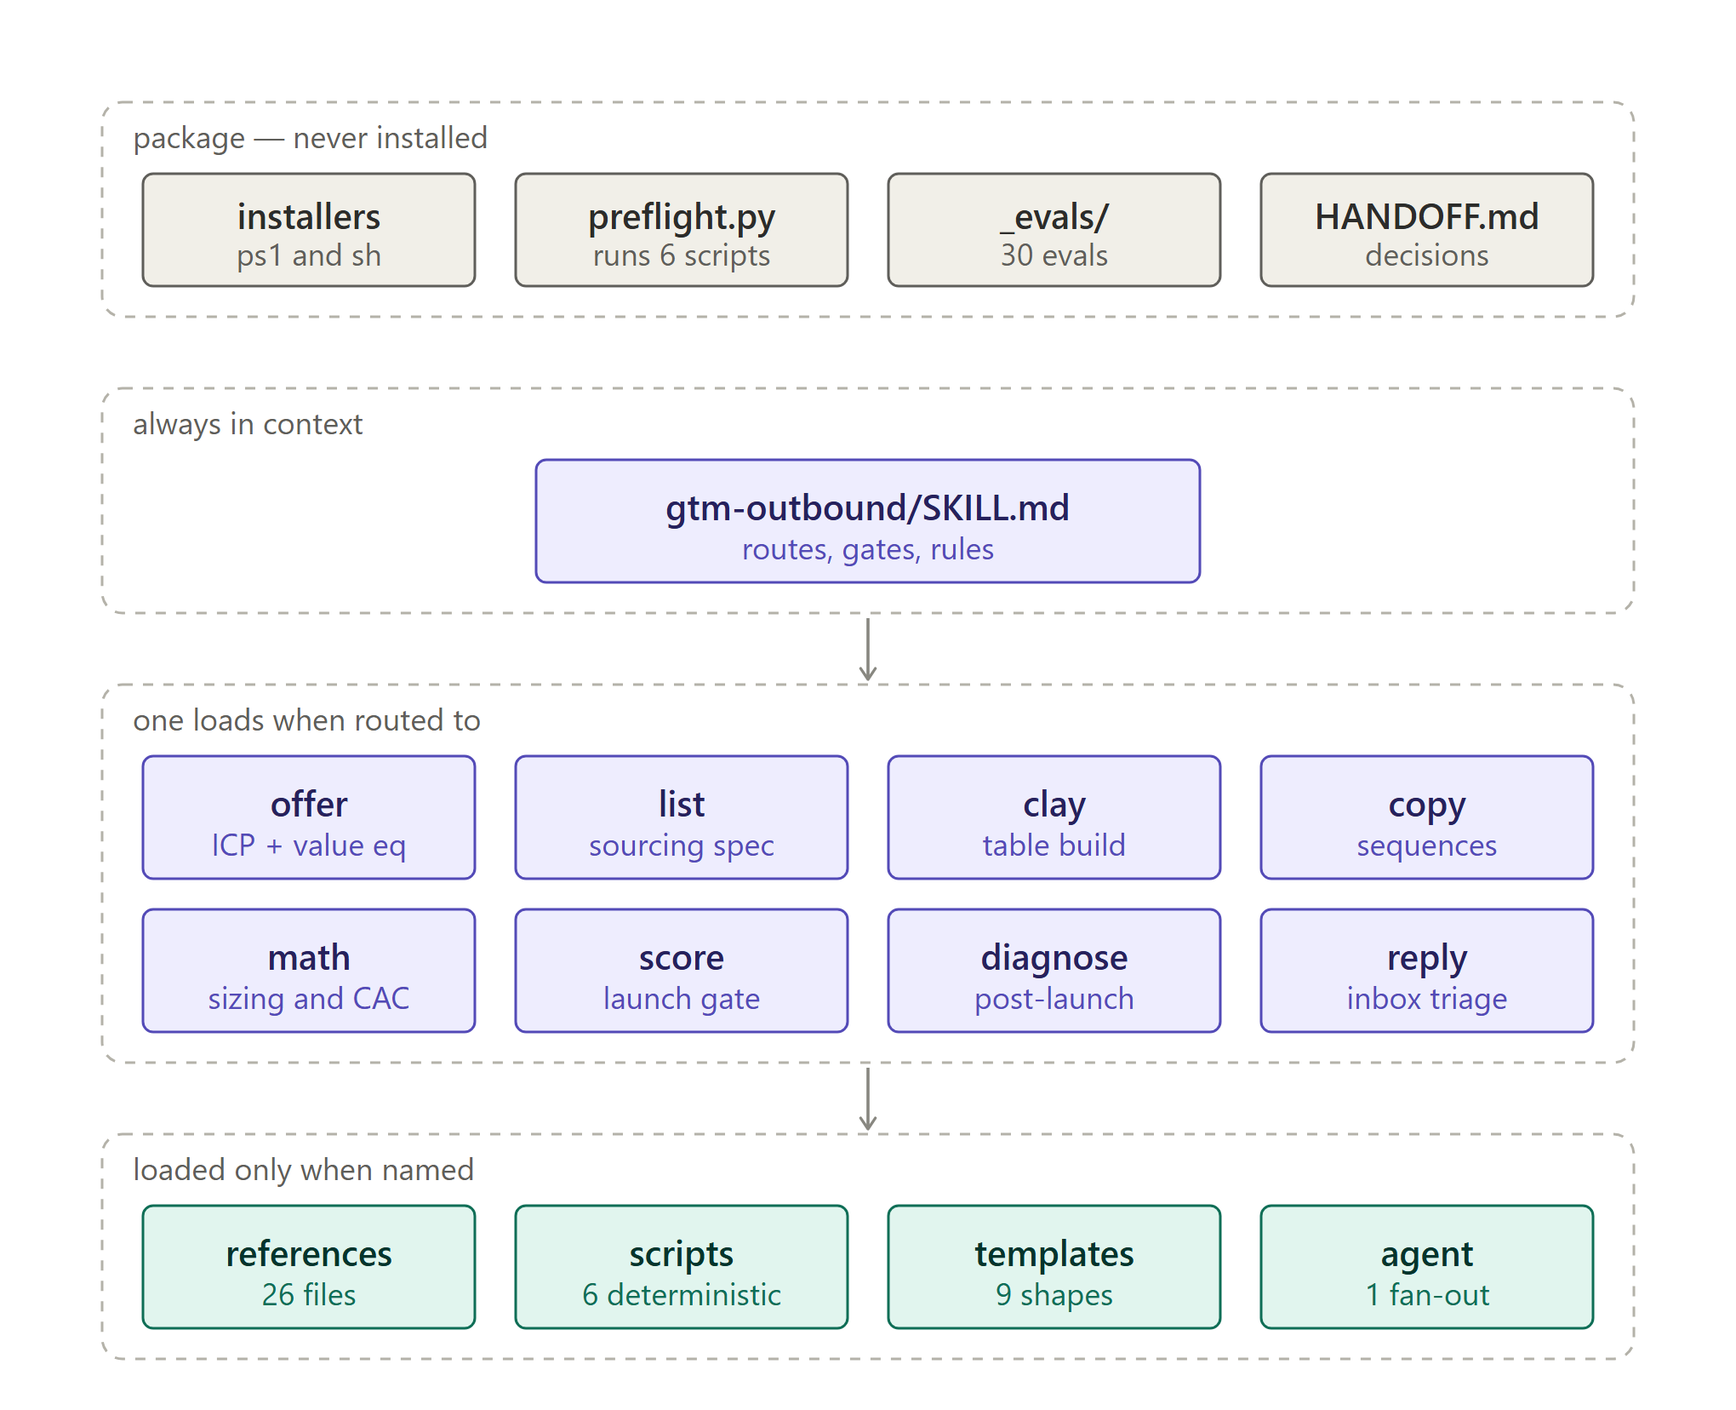
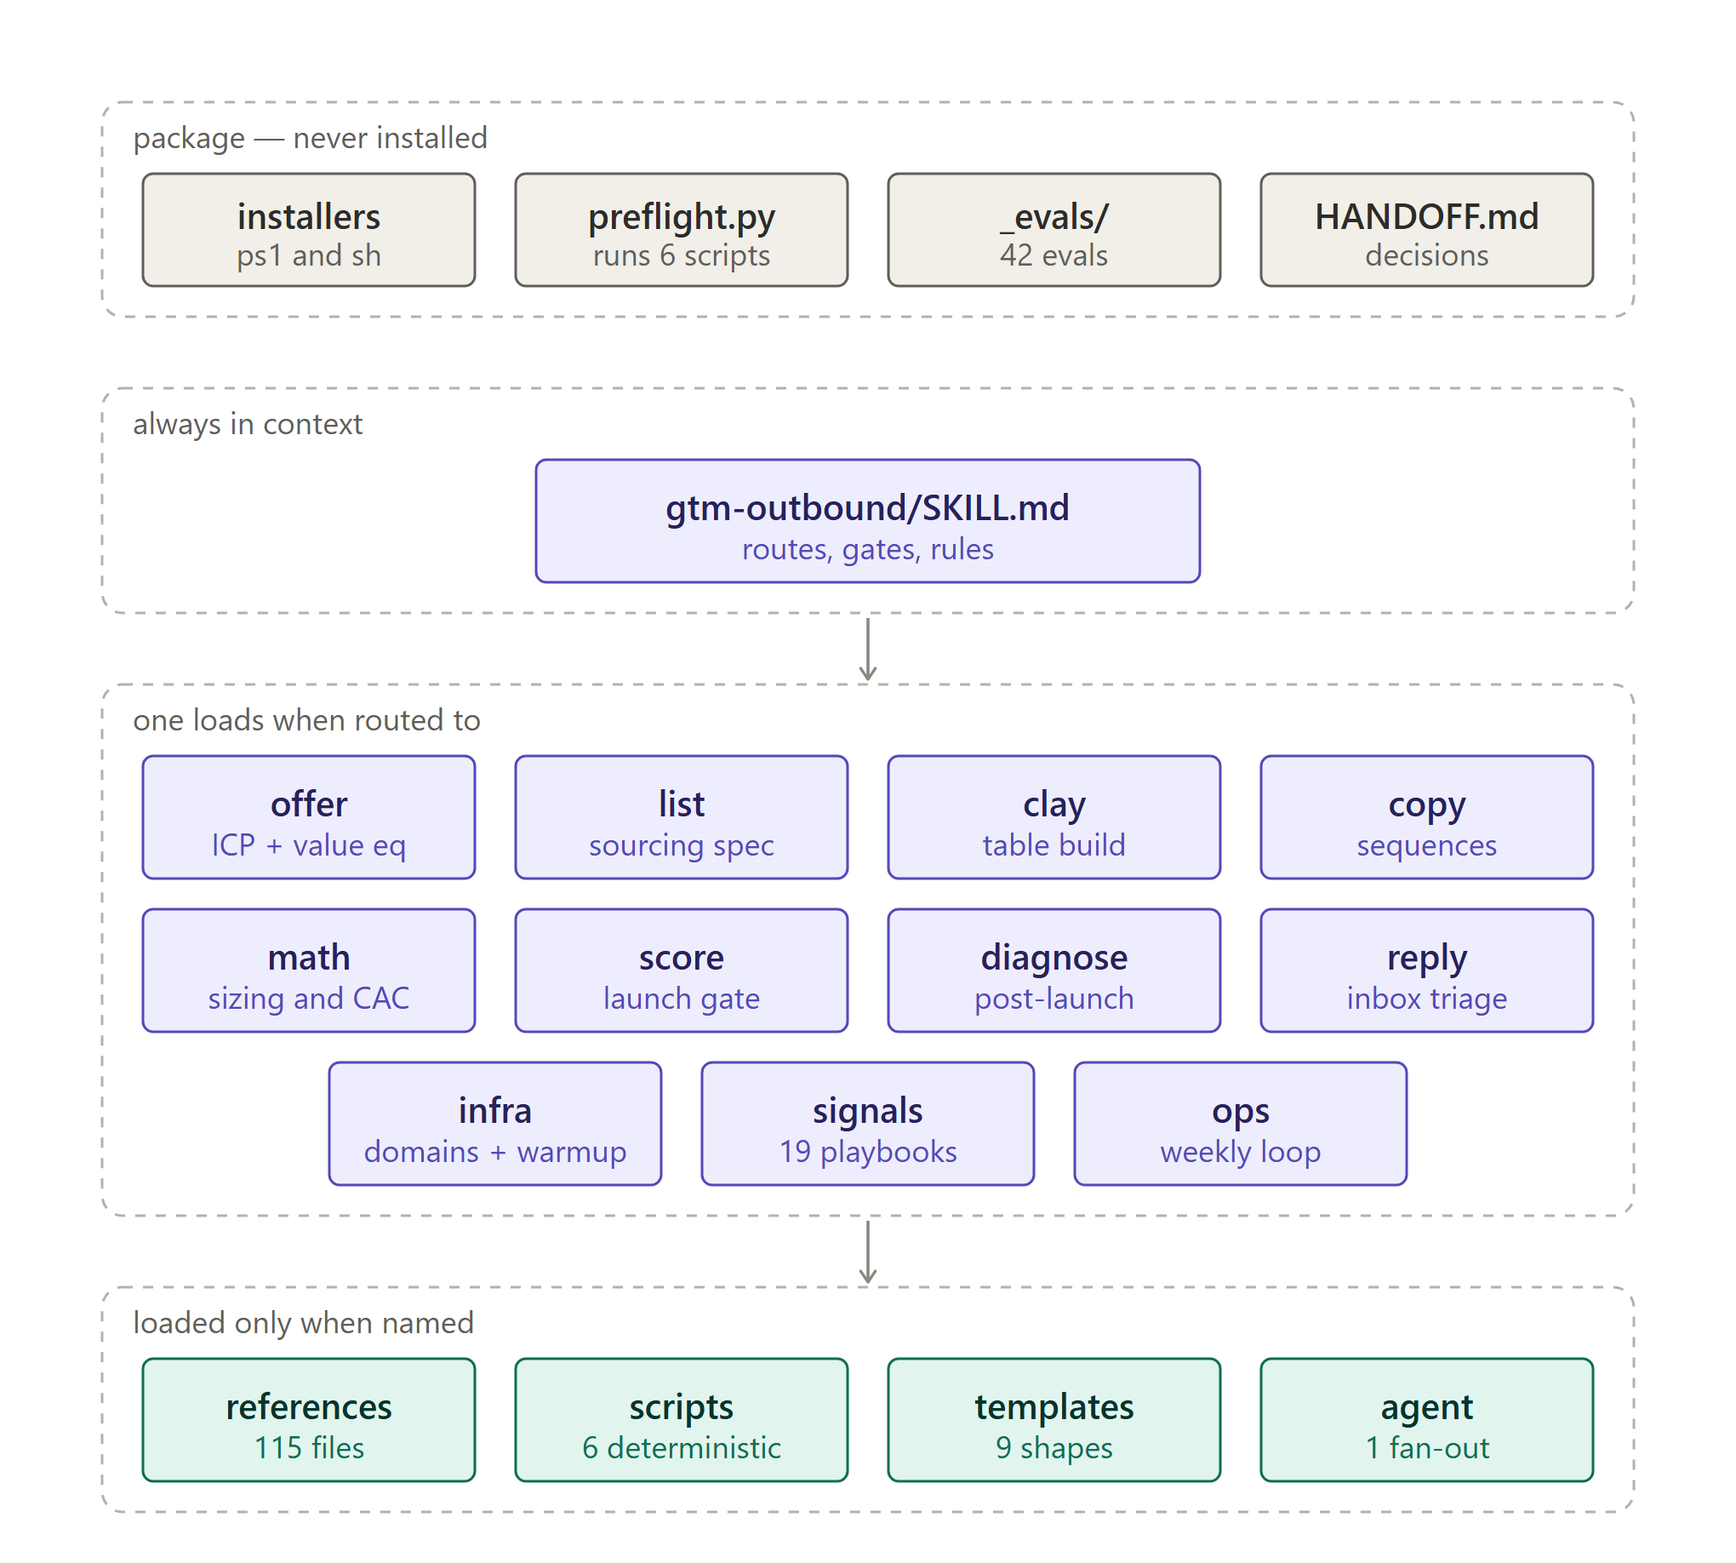
fix(charts): repair the package map generator and redraw both diagrams
_charts/package_map.py was broken independently of the merge, in two ways:

  1. SKILL resolved to ROOT/"gtm-outbound", but the skill lives under
     skills/. Every line count silently printed 0 and the drift check fired
     on files that existed, so package-map.txt had not been written since the
     tree was restructured.
  2. The reference audit used a non-recursive *.md glob, so the new infra/,
     signals/, ops/ and api/ subdirectories were invisible to it.

Both fixed. The audit is now recursive and bidirectional: it reports files on
disk that lack a description (undescribed) and descriptions that no longer
resolve (described but absent). The 19 signal playbooks are enumerated, while
their 38 Clay build companions are aggregated into counted rows that are still
audited file by file against the playbook list.

Coverage went from 21 described references to 115, and from 8 sub-skills to 11.
The optional/ TypeScript tree is now shown as an explicit outside-the-core band
so the dependency boundary is visible on the map.

Diagrams redrawn for the 12-skill shape:
  - levels: third tier grew from a 4x2 to a 4/4/3 grid for 11 sub-skills,
    canvas 552 -> 612, downstream tiers shifted; _evals 42, references 115
  - logic: infra inserted between score and hand over, signals feeding the
    list stage, ops added to the post-launch row, canvas 684 -> 780
  - both PNGs re-rendered at 3x and inspected

Verified: package_map exit 0 with no drift, preflight exit 0, coverage PASS.

diff --git a/_charts/package_map.py b/_charts/package_map.py
@@ -5,6 +5,12 @@ Line counts are read from disk, never typed. Descriptions are the only hand-writ
 part, and a file that gains or loses a description is reported as drift rather than
 silently omitted -- the failure mode this replaces was a hand-drawn map listing 15
 references when there were 21.
+
+v3.0.0: the tree moved under skills/, and the reference set split into subdirectories
+(infra/, signals/, ops/, api/). Both are handled here; the audit is now recursive so a
+new subdirectory cannot slip past it. Repetitive signal build files are aggregated into
+explicit counted rows rather than enumerated 38 times, and the audit still checks them
+file by file against the playbook list.
 """
 import sys
 from pathlib import Path
@@ -15,11 +21,39 @@ sys.stdout.reconfigure(encoding="utf-8", errors="replace")
 sys.stderr.reconfigure(encoding="utf-8", errors="replace")
 
 ROOT = Path(__file__).resolve().parent.parent
-SKILL = ROOT / "gtm-outbound"
+SKILLS = ROOT / "skills"          # sibling skills live here
+SKILL = SKILLS / "gtm-outbound"   # the orchestrator package
 OUT = Path(__file__).parent / "package-map.txt"
 
 NAME_END, NUM_W = 36, 5  # every count right-aligns to one absolute column, not per-prefix
 DESC_COL = NAME_END + NUM_W + 3
+
+# ---------------------------------------------------------------------------
+# Signal playbooks. The 19 names drive three files each: the playbook itself,
+# a Clay table build and a Clay CLI workflow build. Those two build sets are
+# aggregated in the map but audited file by file.
+# ---------------------------------------------------------------------------
+SIGNALS = [
+    ("new-in-role", "start date · title change · rebuild window"),
+    ("linkedin-engagement", "likers and commenters on a source account"),
+    ("social-posts", "hook from their own most recent post"),
+    ("warm-intros", "one hop from the client · say so"),
+    ("fundraising", "round, date, investor · buying window"),
+    ("hiring-surge", "department headcount growth in 6 months"),
+    ("job-posting-language", "a clause from a live role"),
+    ("ad-library", "what they run on Meta right now"),
+    ("pricing-page", "public tiers · price points · feature edges"),
+    ("case-study-page", "one named customer off their own page"),
+    ("tech-on-website", "named tech verified on the live site"),
+    ("google-site-search", "does their site mention this keyword"),
+    ("company-name-cleaning", "the short form a person says aloud"),
+    ("first-name-cleaning", "the greeting form, not the raw field"),
+    ("social-link-finding", "verified official profile URLs"),
+    ("lookalikes", "case study to companies that see themselves"),
+    ("name-to-other-prospects", "right-fit colleague · no wrong-name risk"),
+    ("ai-specificity", "the sentence that makes a generic offer specific"),
+    ("creative-ideas", "three per-company bullets for a slot"),
+]
 
 REFERENCES = [
     ("strategy", [
@@ -27,10 +61,24 @@ REFERENCES = [
         ("icp-filters.md", "filter taxonomy · exclusions · 3 hard rules"),
         ("signals-and-triggers.md", "signal to source map · decay windows"),
         ("buying-committee.md", "DMU roles · staggered threading above ~30 staff"),
+        ("compliance-gates.md", "jurisdiction to consent model to required artifacts"),
+        ("icp-intake.md", "long-form interview · when the ICP has no words yet"),
+        ("campaign-ideas.md", "15-25 angles · raw material, not a substitute for narrowing"),
+        ("lead-magnets.md", "free hook selection · what to give away"),
     ]),
     ("sourcing and enrichment", [
         ("sourcing-channels.md", "channel table · trigger sources beat directories"),
         ("waterfall-enrichment.md", "cheap-first order · gating · verification"),
+        ("list-lanes.md", "one-command lanes · snowball until the market is dry"),
+        ("list-expansion.md", "~10 seeds to a qualified TAM · fingerprint to verify"),
+        ("list-sculpt.md", "SCULPT · learn the customer's own labels"),
+        ("list-ai-qualification.md", "AI qualification prompt · tune before contact pull"),
+        ("list-qa.md", "8 dimensions · grade before upload"),
+        ("sourcing-blitz.md", "domain to contacts"),
+        ("sourcing-google-maps.md", "local SMB lists · category x place"),
+        ("sourcing-discolike.md", "lookalikes from seed domains"),
+        ("sourcing-competitor-engagers.md", "who engages with competitor posts"),
+        ("sourcing-prospeo-export.md", "paginated people export"),
     ]),
     ("clay table construction", [
         ("clay-frameworks.md", "FETE · Jigsaw · SPICE prompt structure"),
@@ -41,17 +89,54 @@ REFERENCES = [
     ]),
     ("execution", [
         ("copy-frameworks.md", "5 blocks · 5 structures · spintax rules"),
+        ("copy-stepwise.md", "direction to subject to body to YAML · confirm each step"),
+        ("copy-spintax.md", "Smartlead spintax · variation budgets"),
+        ("spam-rules.md", "phrases that trip filters · scan before send"),
         ("personalization-depth.md", "fact/inference/hypothesis · appropriateness line"),
+        ("personalization-subagent.md", "per-lead fan-out · approval loop"),
         ("cta-design.md", "motivation x ability x prompt"),
         ("cold-call.md", "4-move opener · phone as a second signal"),
+        ("linkedin-playbook.md", "connection notes · sequencing · reply handling"),
+        ("multichannel-orchestration.md", "video · WhatsApp · phone · conditional branches"),
         ("deliverability.md", "warmup ladder · SPF/DKIM/DMARC · bulk-sender rules"),
+        ("suppression-mechanics.md", "global suppression · cross-domain removal"),
+        ("upload-smartlead.md", "DRAFT upload · human presses start"),
         ("objection-library.md", "recurring objections · understand before countering"),
     ]),
     ("measurement and market", [
         ("gtm-benchmarks.md", "email + LinkedIn bands · what not to optimise"),
         ("gtm-math.md", "formulas mirroring the calculator"),
+        ("experiments.md", "single-variable design · avoid confounded arms"),
+        ("ai-sdr-positioning.md", "what to automate · where AI SDR stops paying"),
         ("gcc-market.md", "★ MENA: coverage gap · Sun-Thu · Ramadan · Zid/Salla"),
         ("mcp-integration.md", "live-data seam · read-only boundary"),
+    ]),
+    ("infrastructure", [
+        ("infra/domains.md", "domain generation · purchase · nameservers"),
+        ("infra/inbox-warmup.md", "warmup ramps · signatures · tagging"),
+        ("infra/deliverability-audit.md", "SPF/DKIM/DMARC · placement · bounce mix"),
+        ("infra/deliverability-incident.md", "failure-mode triage tree"),
+        ("infra/inbox-lifecycle.md", "keep/cancel/promote/buy · replacement lead time"),
+    ]),
+    ("operations", [
+        ("ops/weekly-rhythm.md", "Mon/Wed/Fri · fixed order so drift is visible"),
+        ("ops/reply-scoring.md", "positive replies / sends · the one metric"),
+        ("ops/deliverability-testing.md", "compare reply and bounce by inbox type"),
+    ]),
+    ("APIs", [
+        ("api/smartlead.md", "campaigns · leads · inboxes · analytics endpoints"),
+        ("api/prospeo.md", "Search Person filters · pagination"),
+    ]),
+    ("signal playbooks", [
+        ("signals/index.md", "playbook index · the two build harnesses"),
+        *[(f"signals/{k}.md", d) for k, d in SIGNALS],
+    ]),
+    # Aggregated below: 19 clay-table builds + 19 CLI workflows, counted and audited.
+    ("signal builds (aggregated)", [
+        ("signals/clay-table-harness.md", "shared harness for every clay table build"),
+        ("signals/clay-cli-harness.md", "shared harness for every CLI workflow build"),
+        ("signals/*.clay-table.md", "Clay table build · columns · credit gates"),
+        ("signals/*.clay-workflow.md", "Clay CLI workflow build"),
     ]),
 ]
 
@@ -69,6 +154,7 @@ TEMPLATES = [
     ("campaign-score.md", "verdict · hard gates first · ranked fix list"),
     ("clay-build.md", "ordered columns · cost class · run condition"),
     ("reply-triage.md", "counts by type · suppression list · patterns"),
+    ("reply-drafts.md", "draft per reply class · never sends"),
     ("list-spec.md", "channels · pipeline · credit logic · attrition"),
     ("diagnosis.md", "verdict and layer first · evidence · next action"),
     ("campaign-brief.md", "assembled by a full run"),
@@ -84,16 +170,49 @@ SUBSKILLS = [
     ("gtm-outbound-score", "100-point gate — has it NOT sent yet"),
     ("gtm-outbound-diagnose", "layer routing — has it ALREADY sent"),
     ("gtm-outbound-reply", "classification · objections · booking · handoff"),
+    ("gtm-outbound-infra", "domains · warmup · auth · incidents · fleet lifecycle"),
+    ("gtm-outbound-signals", "19 signal playbooks · one line each"),
+    ("gtm-outbound-ops", "weekly rhythm · reply scoring · inbox-type tests"),
 ]
 
 drift: list[str] = []
 
 
-def lines(path: Path) -> int:
+def count_lines(path: Path) -> int:
     if not path.exists():
         drift.append(f"missing: {path.relative_to(ROOT)}")
         return 0
     return len(path.read_text(encoding="utf-8", errors="replace").splitlines())
+
+
+def item_stats(name: str) -> tuple[int, int]:
+    """(file count, total lines) for a reference entry; supports a glob aggregate."""
+    refdir = SKILL / "references"
+    if "*" in name:
+        matches = sorted(refdir.glob(name))
+        return len(matches), sum(count_lines(p) for p in matches)
+    return 1, count_lines(refdir / name)
+
+
+def audit(directory: Path, described: list[str], pattern: str) -> None:
+    """Every file on disk must be described, and every description must resolve."""
+    actual = {
+        str(p.relative_to(directory)).replace("\\", "/")
+        for p in directory.rglob(pattern)
+    }
+    expected: set[str] = set()
+    for name in described:
+        if "*" in name:
+            expected |= {
+                str(p.relative_to(directory)).replace("\\", "/")
+                for p in directory.glob(name)
+            }
+        else:
+            expected.add(name)
+    for extra in sorted(actual - expected):
+        drift.append(f"undescribed: {directory.name}/{extra}")
+    for gone in sorted(expected - actual):
+        drift.append(f"described but absent: {directory.name}/{gone}")
 
 
 def row(prefix: str, name: str, count: int, desc: str) -> str:
@@ -111,68 +230,80 @@ def band(label: str, total: int) -> str:
     return f"{left} {total:>{NUM_W},} ─╮"
 
 
-def audit(directory: Path, described: list[str], glob: str) -> None:
-    actual = {p.name for p in directory.glob(glob)}
-    for extra in sorted(actual - set(described)):
-        drift.append(f"undescribed: {directory.relative_to(ROOT)}/{extra}")
-
-
-out: list[str] = []
-w = out.append
-
 ref_files = [n for _, items in REFERENCES for n, _ in items]
 audit(SKILL / "references", ref_files, "*.md")
 audit(SKILL / "scripts", [n for n, _ in SCRIPTS], "*.py")
 audit(SKILL / "assets/templates", [n for n, _ in TEMPLATES], "*.md")
 
-ref_total = sum(lines(SKILL / "references" / n) for n in ref_files)
-script_total = sum(lines(SKILL / "scripts" / n) for n, _ in SCRIPTS)
-tpl_total = sum(lines(SKILL / "assets/templates" / n) for n, _ in TEMPLATES)
-sub_total = sum(lines(ROOT / d / "SKILL.md") for d, _ in SUBSKILLS)
+out: list[str] = []
+w = out.append
+
+
+def band_total(items) -> int:
+    return sum(item_stats(n)[1] for n, _ in items)
+
+
+ref_total = band_total([(n, d) for _, items in REFERENCES for n, d in items])
+ref_count = len(list((SKILL / "references").rglob("*.md")))
+script_total = sum(count_lines(SKILL / "scripts" / n) for n, _ in SCRIPTS)
+tpl_total = sum(count_lines(SKILL / "assets/templates" / n) for n, _ in TEMPLATES)
+sub_total = sum(count_lines(SKILLS / d / "SKILL.md") for d, _ in SUBSKILLS)
+opt_files = sorted((SKILL / "optional" / "scripts").rglob("*.ts"))
+opt_count = len(opt_files)
+opt_total = sum(count_lines(p) for p in opt_files)
 
 w("gtm-outbound/".ljust(NAME_END) + "  ★  ORCHESTRATOR — the only file always in context")
 w("│")
-w(row("├── ", "SKILL.md", lines(SKILL / "SKILL.md"),
-      "routing table · artifact chain · 6 hard gates"))
+w(row("├── ", "SKILL.md", count_lines(SKILL / "SKILL.md"),
+      "routing table · artifact chain · hard gates"))
 w(" " * DESC_COL + "motion-fit and geography intake · NEVER-SENDS")
 w("│")
 w("├── agents/")
 w(row("│   └── ", "gtm-outbound-researcher.md",
-      lines(SKILL / "agents/gtm-outbound-researcher.md"),
+      count_lines(SKILL / "agents/gtm-outbound-researcher.md"),
       "the one parallel step · can return SUPPRESS"))
 w("│")
-w(header("├── ", "references/", ref_total,
-         f"{len(ref_files)} files, loaded on demand only"))
+w(header("├── ", "references/", ref_total, f"{ref_count} files, loaded on demand only"))
 for group, items in REFERENCES:
     w("│   │")
-    w(band(group, sum(lines(SKILL / "references" / n) for n, _ in items)))
+    w(band(group, band_total(items)))
     for i, (name, desc) in enumerate(items):
         edge = "│   └── " if i == len(items) - 1 else "│   ├── "
-        w(row(edge, name, lines(SKILL / "references" / name), desc))
+        nfiles, nlines = item_stats(name)
+        label = name if "*" not in name else name.replace("*", f"{nfiles}")
+        w(row(edge, label, nlines, desc))
 w("│")
 w(header("├── ", "scripts/", script_total, "run these, never reason about their output"))
 for i, (name, desc) in enumerate(SCRIPTS):
     edge = "│   └── " if i == len(SCRIPTS) - 1 else "│   ├── "
-    w(row(edge, name, lines(SKILL / "scripts" / name), desc))
+    w(row(edge, name, count_lines(SKILL / "scripts" / name), desc))
+w("│")
+w(header("├── ", "optional/", opt_total,
+         f"{opt_count} TypeScript files — OUTSIDE the zero-dependency core"))
+w(row("│   ├── ", "README.md", count_lines(SKILL / "optional" / "README.md"),
+      "what breaks if you move this into the core"))
+w(row("│   └── ", "scripts/<skill>/*.ts", opt_total,
+      "need Node 18+, tsx and API keys · not covered by preflight"))
 w("│")
 w(header("└── ", "assets/templates/", tpl_total,
          f"{len(TEMPLATES)} files, fill rather than invent a shape"))
 for i, (name, desc) in enumerate(TEMPLATES):
     edge = "    └── " if i == len(TEMPLATES) - 1 else "    ├── "
-    w(row(edge, name, lines(SKILL / "assets/templates" / name), desc))
+    w(row(edge, name, count_lines(SKILL / "assets/templates" / name), desc))
 
 w("")
 w(header("", "gtm-outbound-*/", sub_total, "SIBLING SKILLS — one loads per route"))
 for i, (name, desc) in enumerate(SUBSKILLS):
     edge = "└── " if i == len(SUBSKILLS) - 1 else "├── "
-    w(row(edge, name + "/", lines(ROOT / name / "SKILL.md"), desc))
+    w(row(edge, name + "/", count_lines(SKILLS / name / "SKILL.md"), desc))
 
 w("")
 w("─" * 92)
-total = (lines(SKILL / "SKILL.md") + lines(SKILL / "agents/gtm-outbound-researcher.md")
+total = (count_lines(SKILL / "SKILL.md")
+         + count_lines(SKILL / "agents/gtm-outbound-researcher.md")
          + ref_total + script_total + tpl_total + sub_total)
-w(f"9 skills · 1 agent · {len(ref_files)} references · {len(SCRIPTS)} scripts · "
-  f"{len(TEMPLATES)} templates · {total:,} lines")
+w(f"{len(SUBSKILLS) + 1} skills · 1 agent · {ref_count} references · "
+  f"{len(SCRIPTS)} scripts · {len(TEMPLATES)} templates · {total:,} lines")
 
 text = "\n".join(out) + "\n"
 print(text)

diff --git a/README.md b/README.md
@@ -5,7 +5,7 @@
 hard rule that the skill never sends anything itself.
 
 <p align="center">
-  <img src="_charts/gtm-outbound-logic.svg" alt="Campaign logic: intake → offer → list and clay → copy → score → hand over → diagnose and reply, with artifacts passed between stages" width="640">
+  <img src="_charts/gtm-outbound-logic.svg" alt="Campaign logic: intake → offer → list and clay → copy → score → infra → hand over → diagnose, reply and ops, with signals feeding the list stage and artifacts passed between stages" width="640">
 </p>
 
 Every box writes a file the next box validates against: `offer` writes `icp.json`,
@@ -35,7 +35,7 @@ Talk to it like a colleague. Three entry points cover everything:
 | Just want a number (list size, CAC, sample size) | `/gtm-outbound math` |
 
 <p align="center">
-  <img src="_charts/gtm-outbound-levels.svg" alt="Package levels: evals at the top, one always-loaded orchestrator, eight sub-skills loaded on route, and on-demand references, scripts, templates, and one agent" width="640">
+  <img src="_charts/gtm-outbound-levels.svg" alt="Package levels: evals at the top, one always-loaded orchestrator, eleven sub-skills loaded on route, and on-demand references, scripts, templates, and one agent" width="640">
 </p>
 
 The full chain — `/gtm-outbound full` — runs `offer → list → copy` in order and scores
